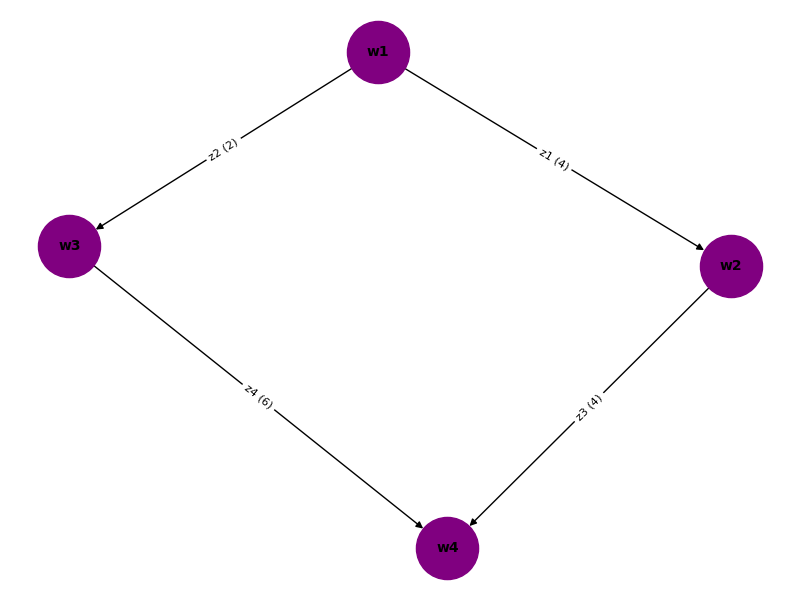
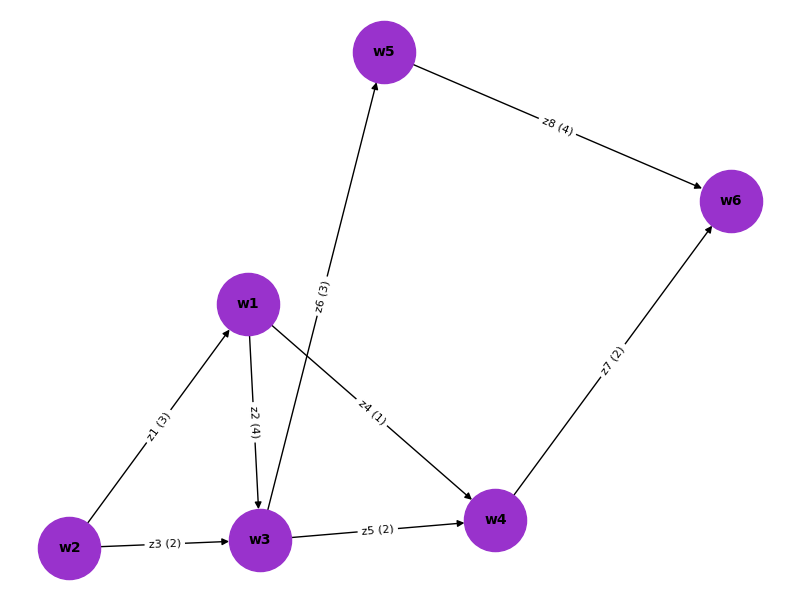
color changing

diff --git a/lab05/main.py b/lab05/main.py
@@ -32,7 +32,7 @@ class CriticalPathMethod:
             self.edge_task_mapping[(start, end)] = f"z{len(G.edges)}"
         pos = nx.spring_layout(G)
         edge_labels = {edge: f"{G.edges[edge]['task']} ({G.edges[edge]['duration']})" for edge in G.edges}
-        self.draw_graph(G, edge_labels, pos, "Graf wejściowy", "graf_wejsciowy.png", node_color="purple")
+        self.draw_graph(G, edge_labels, pos, "Graf wejściowy", "graf_wejsciowy.png", node_color="#9932CC")
 
     def topological_sort(self):
         in_degree = defaultdict(int)
@@ -61,7 +61,7 @@ class CriticalPathMethod:
             G_t.add_edge(mapped_start, mapped_end, task=self.edge_task_mapping[(start, end)], duration=duration)
         pos_t = nx.spring_layout(G_t)
         edge_labels_topo = {edge: f"{G_t.edges[edge]['task']} ({G_t.edges[edge]['duration']})" for edge in G_t.edges}
-        self.draw_graph(G_t, edge_labels_topo, pos_t, "Graf topologiczny", "graf_topologiczny.png", node_color="lavender")
+        self.draw_graph(G_t, edge_labels_topo, pos_t, "Graf topologiczny", "graf_topologiczny.png", node_color="#9370DB")
 
 
         new_graph = defaultdict(list)
@@ -99,7 +99,14 @@ class CriticalPathMethod:
             for neighbor in self.graph_mapping[node]:
                 self.ES[neighbor] = max(self.ES[neighbor], self.ES[node] + self.weights_mapping[(node, neighbor)])
 
+        cmax = 0
+        for task in self.ES.items():
+            if task[1] > cmax:
+                cmax = task[1]
+       
+        
         print("Earliest Start Times (ES):", self.ES)
+        print("Długość uszeregowania (według ES) wynosi: ", cmax)
 
 
     def calculate_LS(self):
@@ -131,7 +138,19 @@ class CriticalPathMethod:
         plt.figure(figsize=(12, 8))
         machine_usage = defaultdict(list)
         task_colors = {}
-        available_colors = list(mcolors.TABLEAU_COLORS.values())
+        # available_colors = list(mcolors.TABLEAU_COLORS.values())
+        available_colors = [
+            "#8A2BE2",  
+            "#BA55D3",  
+            "#4B0082", 
+            "#6A5ACD",  
+            "#9932CC",  
+            "#7B68EE",  
+            "#9370DB", 
+            "#9400D3",  
+            "#6495ED",  
+            "#8B008B",  
+        ]
 
         for i, (start, end) in enumerate(self.weights_mapping):
             task_colors[(start, end)] = available_colors[i % len(available_colors)]
@@ -181,14 +200,32 @@ class CriticalPathMethod:
         self.find_critical_path()
         self.draw_gantt_chart()
 
+# tasks = [
+#     ("w1", "w2", 4),
+#     ("w1", "w3", 2),
+#     ("w2", "w4", 4),
+#     ("w3", "w4", 6)
+# ]
 
-# Example tasks
+# tasks = [
+#     ('w2', 'w4', 2),
+#     ('w2', 'w1', 3),
+#     ('w1', 'w3', 2),
+#     ('w4', 'w3', 1),
+#     ('w3', 'w5', 4),
+# ]
+
 tasks = [
-    ("w1", "w2", 4),
-    ("w1", "w3", 2),
-    ("w2", "w4", 4),
-    ("w3", "w4", 6)
+    ("w2", "w1", 3),
+    ("w1", "w3", 4),
+    ("w2", "w3", 2),
+    ("w1", "w4", 1),
+    ("w3", "w4", 2),
+    ("w3", "w5", 3),
+    ("w4", "w6", 2),
+    ("w5", "w6", 4)
 ]
+
 
 cpm = CriticalPathMethod(tasks)
 cpm.execute()
